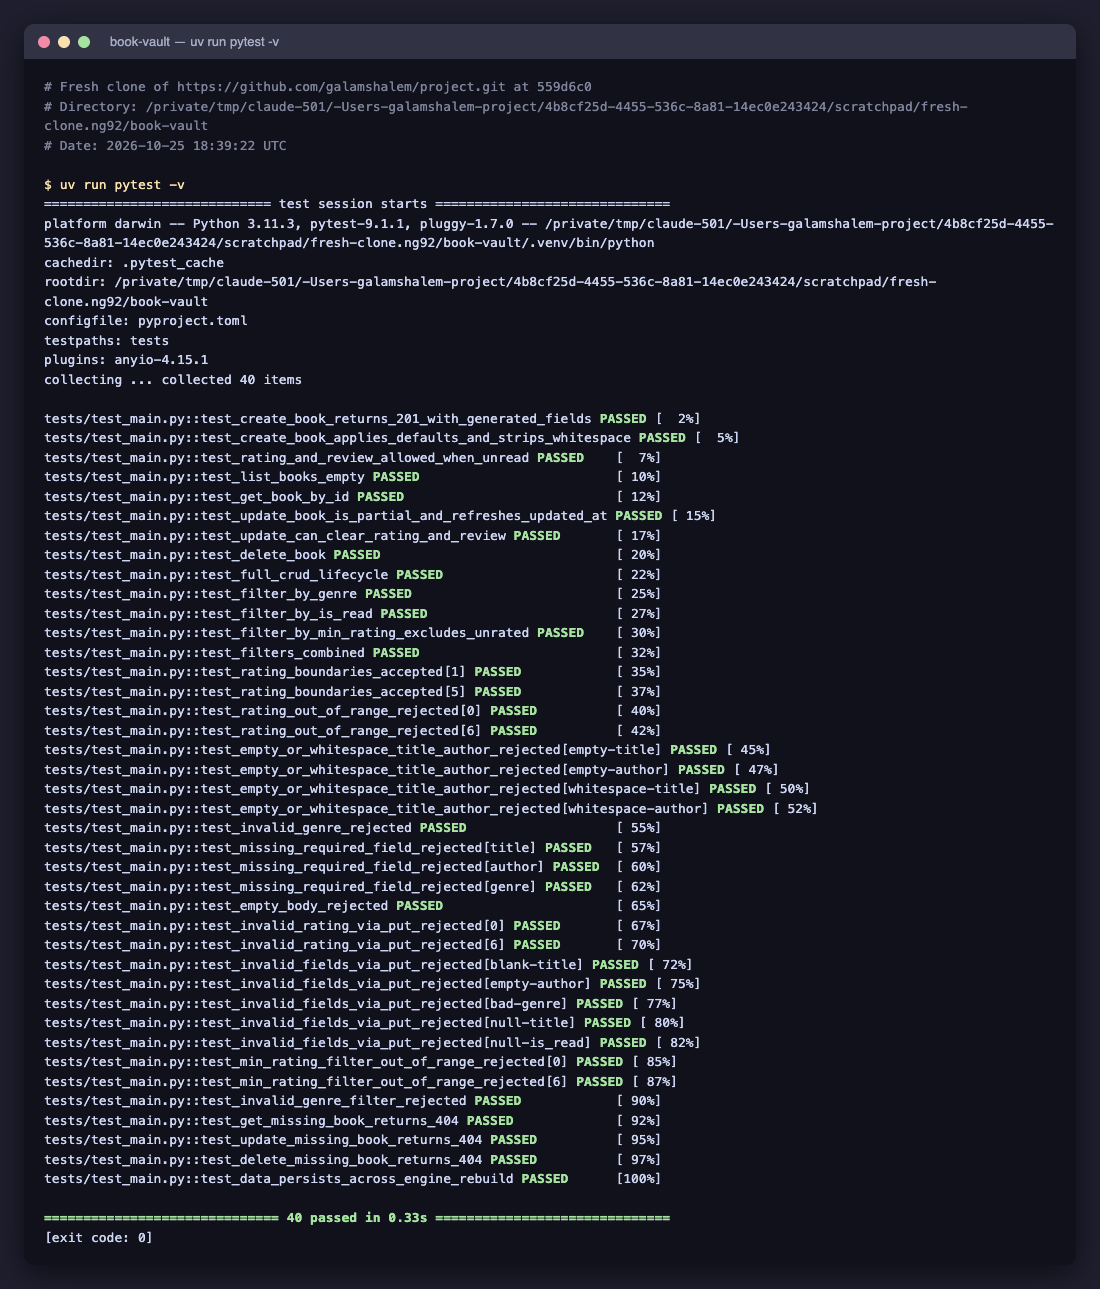
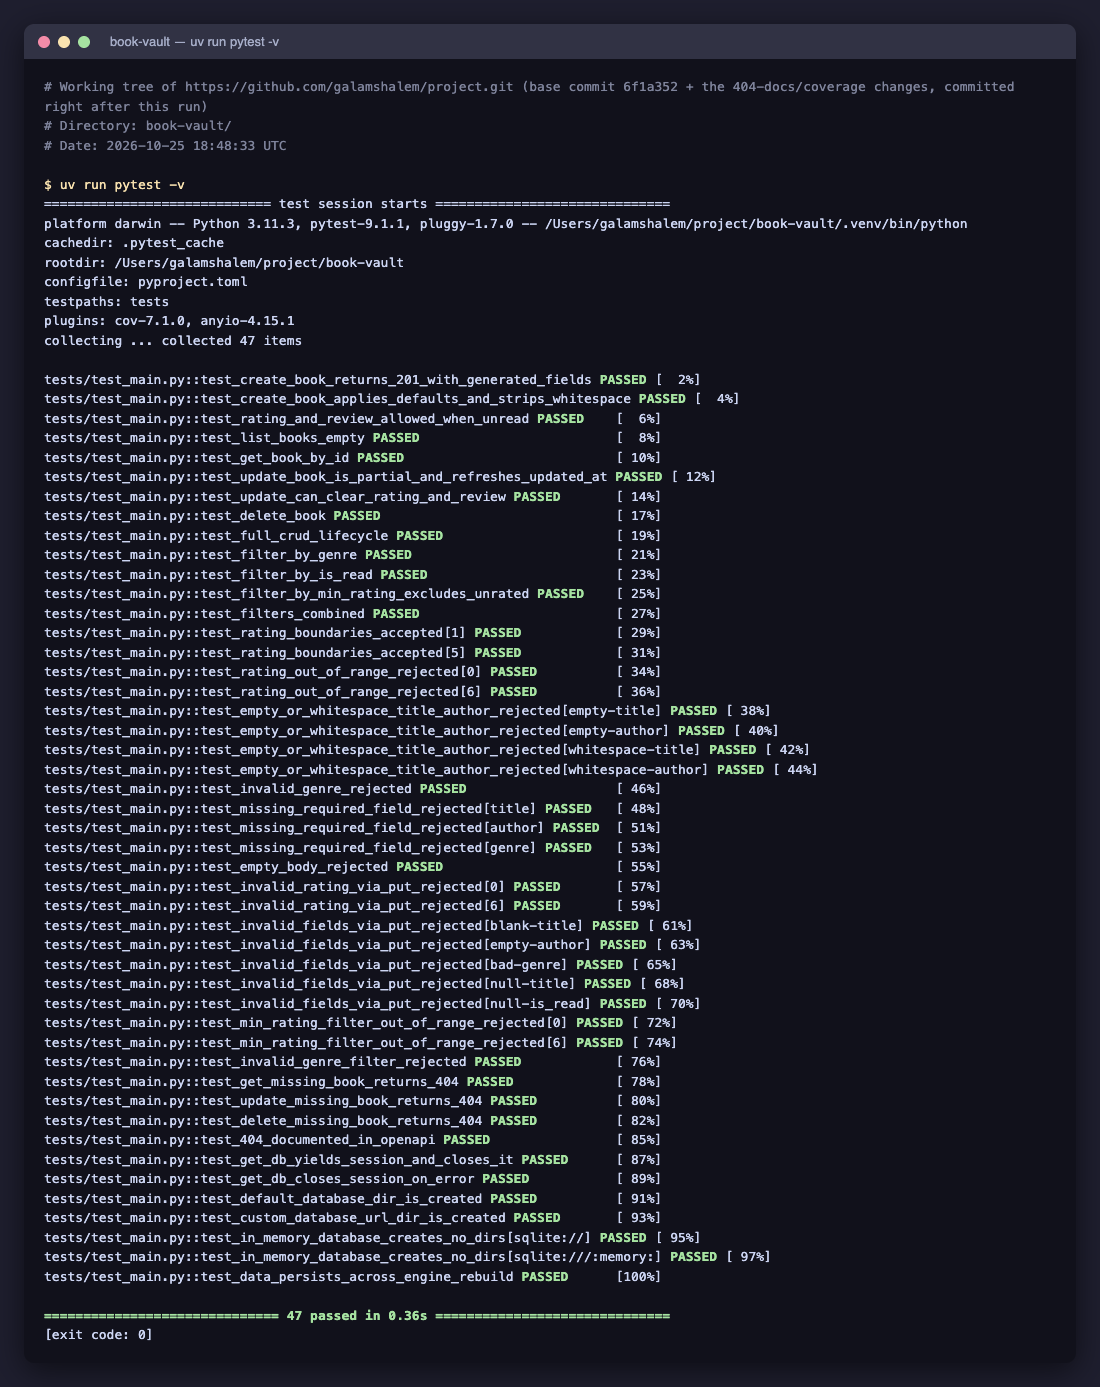
Document 404 responses, raise coverage, refresh evidence
Declare the 404 response (with a shared ErrorResponse schema) on GET, PUT
and DELETE /books/{book_id} so it appears in the OpenAPI docs, and use one
BOOK_NOT_FOUND message for all three. Move the SQLite directory creation into
ensure_sqlite_dir() so it can be tested, and add tests for it, the real
get_db dependency and the documented 404s (47 tests, 100% coverage).
Refresh the affected evidence and numbers in PROOF.md and the README.

Changed region(s): [[0.0309, 0.031, 0.9582, 0.962], [0.7727, 0.2172, 0.8036, 0.2483], [0.6491, 0.2172, 0.68, 0.2483]]

diff --git a/book-vault/tests/test_main.py b/book-vault/tests/test_main.py
@@ -1,15 +1,16 @@
 """API tests for the Book Vault: CRUD, filters, validation, 404s and persistence."""
 
+import os
 from collections.abc import Generator
 from pathlib import Path
 from typing import Any
 
 import pytest
 from fastapi.testclient import TestClient
-from sqlalchemy import create_engine
+from sqlalchemy import create_engine, text
 from sqlalchemy.orm import Session, sessionmaker
 
-from app.database import Base, get_db
+from app.database import DEFAULT_DATABASE_URL, Base, ensure_sqlite_dir, get_db
 from app.main import app
 
 VALID_BOOK: dict[str, Any] = {
@@ -273,6 +274,73 @@ def test_delete_missing_book_returns_404(client: TestClient) -> None:
     response = client.delete(f"/books/{MISSING_ID}")
     assert response.status_code == 404
     assert response.json() == {"detail": "Book not found"}
+
+
+def test_404_documented_in_openapi(client: TestClient) -> None:
+    spec = client.get("/openapi.json").json()
+    operations = spec["paths"]["/books/{book_id}"]
+    for method in ("get", "put", "delete"):
+        not_found = operations[method]["responses"].get("404")
+        assert not_found is not None, f"404 not documented on {method.upper()}"
+        assert not_found["description"] == "Book not found"
+        schema_ref = not_found["content"]["application/json"]["schema"]["$ref"]
+        assert schema_ref == "#/components/schemas/ErrorResponse"
+    error_schema = spec["components"]["schemas"]["ErrorResponse"]
+    assert error_schema["properties"]["detail"]["type"] == "string"
+
+
+# ----------------------------------------------------------------------- Database
+
+
+def test_get_db_yields_session_and_closes_it() -> None:
+    """The real get_db dependency (not the test override) opens and closes a session."""
+    dependency = get_db()
+    db = next(dependency)
+    assert isinstance(db, Session)
+    assert db.execute(text("SELECT 1")).scalar_one() == 1
+    assert db.in_transaction()
+    # Finishing the generator (what FastAPI does after the response) runs `finally`.
+    with pytest.raises(StopIteration):
+        next(dependency)
+    assert not db.in_transaction()
+
+
+def test_get_db_closes_session_on_error() -> None:
+    """If the request handler raises, the session is still closed."""
+    dependency = get_db()
+    db = next(dependency)
+    db.execute(text("SELECT 1"))
+    with pytest.raises(RuntimeError):
+        dependency.throw(RuntimeError("handler failed"))
+    assert not db.in_transaction()
+
+
+def test_default_database_dir_is_created(tmp_path: Path, monkeypatch: pytest.MonkeyPatch) -> None:
+    # Run from an empty temp dir so the relative ./data path never hits the real one.
+    monkeypatch.chdir(tmp_path)
+    assert not (tmp_path / "data").exists()
+    ensure_sqlite_dir(DEFAULT_DATABASE_URL)
+    assert (tmp_path / "data").is_dir()
+    ensure_sqlite_dir(DEFAULT_DATABASE_URL)  # idempotent: no error if it already exists
+
+
+def test_custom_database_url_dir_is_created(
+    tmp_path: Path, monkeypatch: pytest.MonkeyPatch
+) -> None:
+    db_file = tmp_path / "nested" / "dir" / "books.db"
+    monkeypatch.setenv("DATABASE_URL", f"sqlite:///{db_file}")
+    ensure_sqlite_dir(os.environ["DATABASE_URL"])
+    assert db_file.parent.is_dir()
+    assert not db_file.exists()  # only the directory; SQLite creates the file itself
+
+
+@pytest.mark.parametrize("url", ["sqlite://", "sqlite:///:memory:"])
+def test_in_memory_database_creates_no_dirs(
+    url: str, tmp_path: Path, monkeypatch: pytest.MonkeyPatch
+) -> None:
+    monkeypatch.chdir(tmp_path)
+    ensure_sqlite_dir(url)
+    assert list(tmp_path.iterdir()) == []
 
 
 # -------------------------------------------------------------------- Persistence

diff --git a/book-vault/app/main.py b/book-vault/app/main.py
@@ -2,6 +2,7 @@
 
 from collections.abc import AsyncIterator
 from contextlib import asynccontextmanager
+from typing import Any
 
 from fastapi import Depends, FastAPI, HTTPException, Query, Response, status
 from sqlalchemy import select
@@ -9,7 +10,14 @@ from sqlalchemy.orm import Session
 
 from app.database import Base, engine, get_db
 from app.models import Book, utcnow
-from app.schemas import BookCreate, BookRead, BookUpdate, Genre
+from app.schemas import BookCreate, BookRead, BookUpdate, ErrorResponse, Genre
+
+BOOK_NOT_FOUND = "Book not found"
+
+# Declared on every /books/{book_id} route so the 404 appears in the OpenAPI docs.
+NOT_FOUND_RESPONSE: dict[int | str, dict[str, Any]] = {
+    status.HTTP_404_NOT_FOUND: {"model": ErrorResponse, "description": BOOK_NOT_FOUND},
+}
 
 
 @asynccontextmanager
@@ -31,7 +39,7 @@ def get_book_or_404(db: Session, book_id: int) -> Book:
     """Fetch a book by id, raising 404 if it doesn't exist."""
     book = db.get(Book, book_id)
     if book is None:
-        raise HTTPException(status_code=status.HTTP_404_NOT_FOUND, detail="Book not found")
+        raise HTTPException(status_code=status.HTTP_404_NOT_FOUND, detail=BOOK_NOT_FOUND)
     return book
 
 
@@ -63,12 +71,12 @@ def list_books(
     return list(db.scalars(query))
 
 
-@app.get("/books/{book_id}", response_model=BookRead)
+@app.get("/books/{book_id}", response_model=BookRead, responses=NOT_FOUND_RESPONSE)
 def get_book(book_id: int, db: Session = Depends(get_db)) -> Book:
     return get_book_or_404(db, book_id)
 
 
-@app.put("/books/{book_id}", response_model=BookRead)
+@app.put("/books/{book_id}", response_model=BookRead, responses=NOT_FOUND_RESPONSE)
 def update_book(book_id: int, payload: BookUpdate, db: Session = Depends(get_db)) -> Book:
     """Partially update a book: only fields present in the request body change."""
     book = get_book_or_404(db, book_id)
@@ -81,7 +89,9 @@ def update_book(book_id: int, payload: BookUpdate, db: Session = Depends(get_db)
     return book
 
 
-@app.delete("/books/{book_id}", status_code=status.HTTP_204_NO_CONTENT)
+@app.delete(
+    "/books/{book_id}", status_code=status.HTTP_204_NO_CONTENT, responses=NOT_FOUND_RESPONSE
+)
 def delete_book(book_id: int, db: Session = Depends(get_db)) -> Response:
     book = get_book_or_404(db, book_id)
     db.delete(book)

diff --git a/book-vault/app/database.py b/book-vault/app/database.py
@@ -4,15 +4,26 @@ import os
 from collections.abc import Generator
 from pathlib import Path
 
-from sqlalchemy import create_engine
+from sqlalchemy import create_engine, make_url
 from sqlalchemy.orm import DeclarativeBase, Session, sessionmaker
 
 DEFAULT_DATABASE_URL = "sqlite:///./data/books.db"
 DATABASE_URL = os.getenv("DATABASE_URL", DEFAULT_DATABASE_URL)
 
-# SQLite won't create missing parent directories, so make sure ./data exists.
-if DATABASE_URL == DEFAULT_DATABASE_URL:
-    Path("./data").mkdir(parents=True, exist_ok=True)
+
+def ensure_sqlite_dir(url: str) -> None:
+    """Create the parent directory of a file-based SQLite database if it's missing.
+
+    SQLite creates the database file itself but not missing directories, so without
+    this the default ./data/books.db would fail on a fresh checkout. In-memory and
+    non-SQLite URLs are left alone.
+    """
+    parsed = make_url(url)
+    if parsed.get_backend_name() == "sqlite" and parsed.database not in (None, "", ":memory:"):
+        Path(parsed.database).parent.mkdir(parents=True, exist_ok=True)
+
+
+ensure_sqlite_dir(DATABASE_URL)
 
 # SQLite connections refuse cross-thread use by default; FastAPI may serve a
 # request on a different thread than the one that opened the connection.

diff --git a/book-vault/app/schemas.py b/book-vault/app/schemas.py
@@ -60,6 +60,12 @@ class BookUpdate(BaseModel):
         return self
 
 
+class ErrorResponse(BaseModel):
+    """Body of error responses raised with HTTPException (e.g. 404)."""
+
+    detail: str
+
+
 class BookRead(BookBase):
     """Response body: the stored book, built straight from the ORM object."""
 

diff --git a/book-vault/docs/proof/PROOF.md b/book-vault/docs/proof/PROOF.md
@@ -4,11 +4,15 @@ All evidence below was produced on 2026-10-25. Text files contain the exact comm
 that were run together with their full, unedited output. Screenshots were taken with
 Playwright driving Google Chrome against the running server, at a 1400×900 viewport.
 
+Evidence 01–03, 05 and 09 were refreshed after the 404 responses were documented in
+OpenAPI and the `database.py` tests were added. An earlier run on a fresh clone of the
+repository (commit `559d6c0`) also passed ruff and every test.
+
 | # | Evidence | What it shows |
 |---|----------|---------------|
-| 01 | [01-ruff.txt](01-ruff.txt) | `uv sync` + `ruff check` on a fresh clone |
-| 02 | [02-pytest.txt](02-pytest.txt), [02-pytest.png](02-pytest.png) | Full test run on a fresh clone: 40 passed |
-| 03 | [03-coverage.txt](03-coverage.txt), [03-coverage.png](03-coverage.png) | Test coverage: 96% |
+| 01 | [01-ruff.txt](01-ruff.txt) | `uv sync` + `ruff check`: no issues |
+| 02 | [02-pytest.txt](02-pytest.txt), [02-pytest.png](02-pytest.png) | Full test run: 47 passed |
+| 03 | [03-coverage.txt](03-coverage.txt), [03-coverage.png](03-coverage.png) | Test coverage: 100% |
 | 04 | [04-api-demo.txt](04-api-demo.txt) | Live curl session against the server, including a restart |
 | 05–09 | Swagger UI screenshots | Interactive docs, with real requests executed |
 | 10 | [10-docker.txt](10-docker.txt) | Docker build, run, restart and persistence |
@@ -25,8 +29,10 @@ generated automatically at `/docs`.
 Pydantic v2 schemas reject bad input with FastAPI's standard `422` response. The
 checks cover ratings outside 1–5, empty or whitespace-only titles and authors, unknown
 genres, and missing fields. The demo shows rating 6 and an empty title both returning
-`422` (steps 10–11 in [04-api-demo.txt](04-api-demo.txt)). The 404 screenshot shows a
-missing id returning `{"detail": "Book not found"}`.
+`422` (steps 10–11 in [04-api-demo.txt](04-api-demo.txt)). A missing id returns
+`404` with `{"detail": "Book not found"}`. That 404 is declared in OpenAPI, using an
+`ErrorResponse` schema, on `GET`, `PUT` and `DELETE /books/{book_id}`, so Swagger lists
+it as a documented response. A test checks `/openapi.json` to confirm this.
 
 ![422 for rating 6 in Swagger UI](08-swagger-422.png)
 
@@ -58,19 +64,28 @@ temporary file.
 
 ## Tests
 
-The suite has 40 pytest tests, each with an isolated in-memory database. They cover
-CRUD, every filter and filter combinations, validation `422`s, `404`s, and
-persistence. On a fresh clone of the repository, all 40 pass, and ruff reports no
-issues ([01-ruff.txt](01-ruff.txt), [02-pytest.txt](02-pytest.txt)).
+The suite has 47 pytest tests, each with an isolated in-memory database. They cover:
 
-![pytest output: 40 passed](02-pytest.png)
+- CRUD
+- every filter, and filter combinations
+- validation `422`s and `404`s
+- the documented 404s in OpenAPI
+- the real `get_db` dependency
+- creation of the database directory
+- persistence
+
+All 47 pass, and ruff reports no issues ([01-ruff.txt](01-ruff.txt),
+[02-pytest.txt](02-pytest.txt)).
+
+![pytest output: 47 passed](02-pytest.png)
 
 ## Coverage
 
-Coverage is 96% overall, and 100% for `main.py`, `models.py` and `schemas.py`
-([03-coverage.txt](03-coverage.txt)). The only lines not covered are in
-`database.py`: the code that creates `./data` and the production `get_db`. The tests
-deliberately replace both with an isolated test database.
+Coverage is 100% for every module in `app/` (137 of 137 statements), with no lines
+excluded by `# pragma: no cover` ([03-coverage.txt](03-coverage.txt)). The real `get_db`
+dependency is tested directly: the session is closed both after a normal request and
+after an error. Directory creation is tested in a temporary directory, so the real
+`data/` folder is never touched.
 
 ![HTML coverage report](03-coverage.png)
 

diff --git a/book-vault/README.md b/book-vault/README.md
@@ -140,7 +140,8 @@ uv run pytest -v
 
 Each test runs against its own fresh in-memory database, so tests never touch
 `./data/books.db`. The suite covers CRUD, every filter and filter combinations,
-validation errors, 404s, and persistence across an engine restart.
+validation errors, 404s (including that they're documented in OpenAPI), the
+`get_db` dependency, and persistence across an engine restart.
 
 Coverage report (terminal + HTML in `htmlcov/`):
 
@@ -185,8 +186,8 @@ stage, and the runtime stage is `python:3.11-slim` running as a non-root user.
 [docs/proof/PROOF.md](docs/proof/PROOF.md) collects evidence that the project works.
 It includes:
 
-- a lint and test run on a fresh clone of the repository
-- the test coverage report
+- a lint and test run (47 tests, all passing)
+- the test coverage report (100%)
 - a live curl session, including a server restart
 - Swagger UI screenshots of real requests
 - a Docker run that shows the data survives container restarts

diff --git a/book-vault/CLAUDE.md b/book-vault/CLAUDE.md
@@ -49,8 +49,11 @@ data/           runtime SQLite file (gitignored, also the Docker volume at /app/
   that omitted fields are left alone. New optional fields on `BookUpdate` must
   follow the same pattern. If a new column is NOT NULL, add it to the explicit-null
   check in `BookUpdate`.
-- **Errors.** Use `get_book_or_404()` for id lookups. Leave validation errors to
-  FastAPI's default `422` response.
+- **Errors.** Use `get_book_or_404()` for id lookups, so the 404 message is always
+  `BOOK_NOT_FOUND`. Every `/books/{book_id}` route declares
+  `responses=NOT_FOUND_RESPONSE` so the 404 is documented in OpenAPI, and
+  `test_404_documented_in_openapi` checks this. Leave validation errors to FastAPI's
+  default `422` response.
 - **Tests are required.** Every new endpoint needs tests for success, validation
   (`422`) and not-found (`404`) cases. Use the `client` fixture and never point tests
   at `./data/books.db`.
